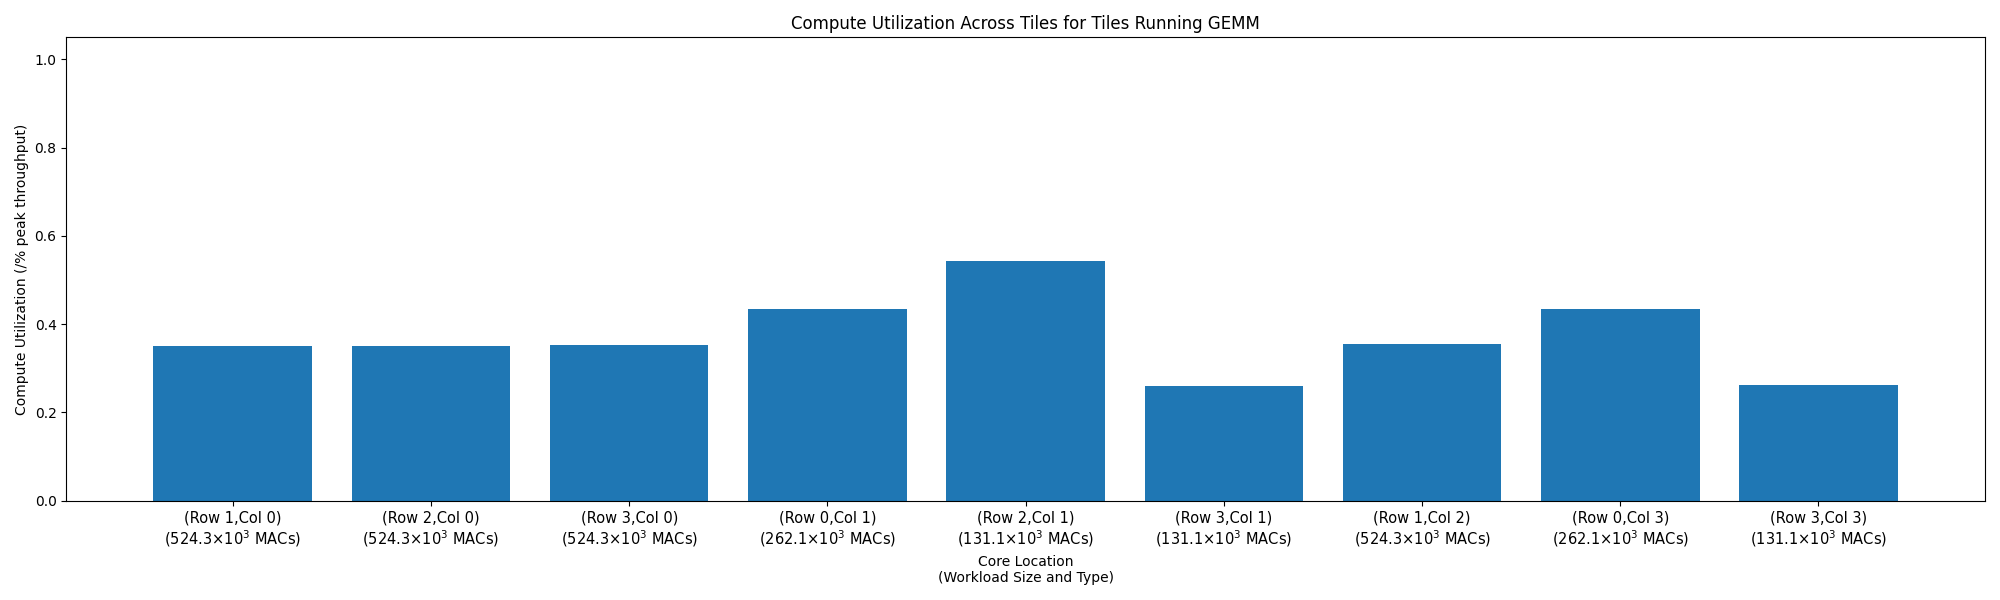
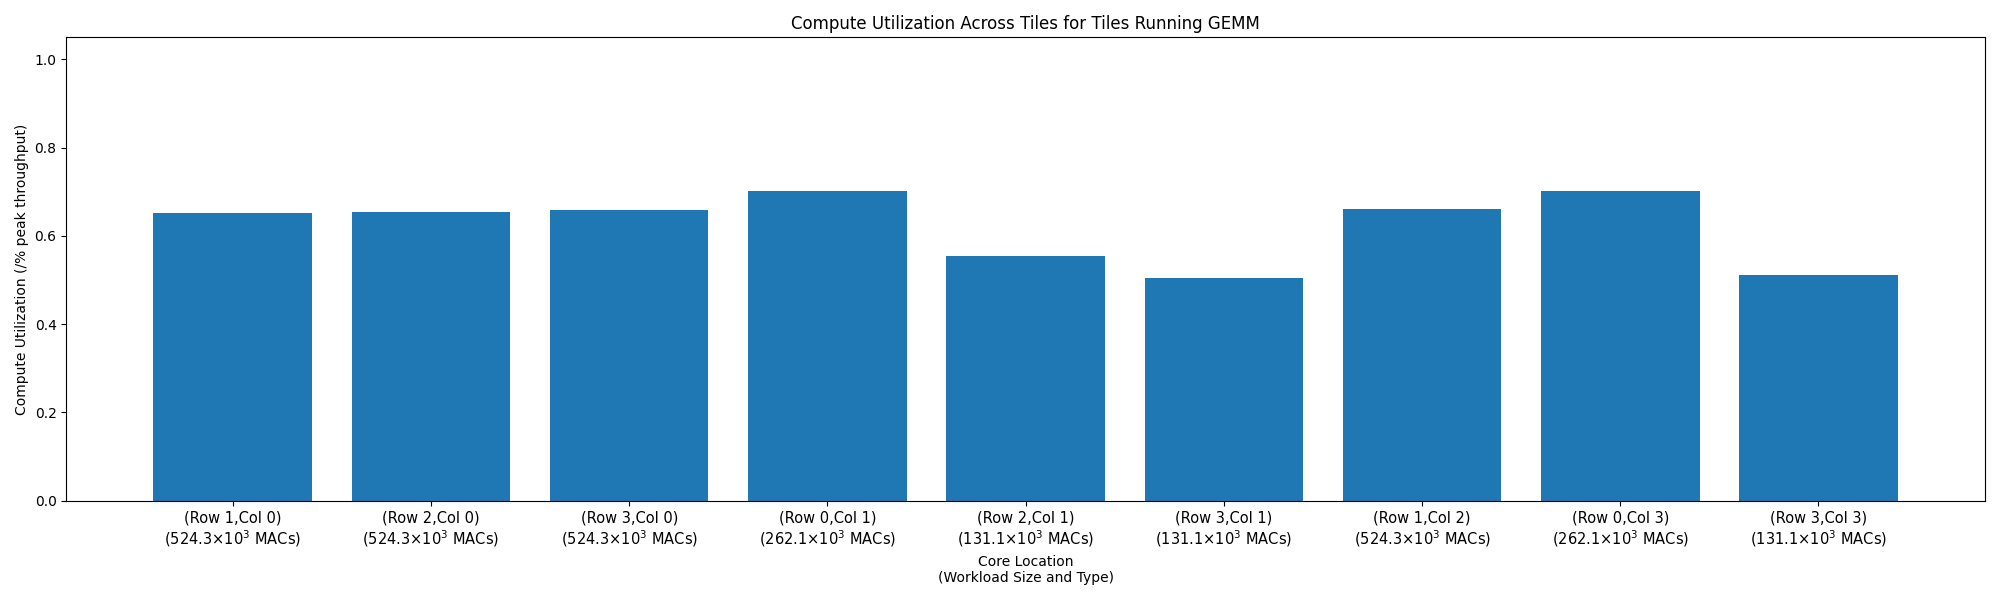
Using the right peak throughput for trace analysis based on device

Changed region(s): [[0.062, 0.3, 0.558, 0.6], [0.558, 0.3, 0.961, 0.66]]

diff --git a/programming_examples/ml/transformer/mha_with_trace/analyse_traces.py b/programming_examples/ml/transformer/mha_with_trace/analyse_traces.py
@@ -6,7 +6,7 @@ import re
 import matplotlib.pyplot as plt
 
 # First number is row, second number is column
-THEORETICAL_PEAK_BF16_BF16 = 256 # MACs per cycle
+THEORETICAL_PEAK_BF16_BF16 = {"npu2": 256, "npu": 128} # MACs per cycle
 WORKLOAD_AT_TILE = {
     "tile2,1": {"type": "GEMM", "size": 64*64*64*2},
     "tile2,2": {"type": "GEMM", "size": 16*32*256*2},
@@ -27,7 +27,7 @@ WORKLOAD_AT_TILE = {
 }
 
 CLOCK_FREQ = 10**9  # 1 GHz
-def analyse_json_file(filepath):
+def analyse_json_file(filepath, dev):
     """
     Analyse the JSON file for performance data.
     Args:
@@ -82,6 +82,7 @@ def analyse_json_file(filepath):
                     start_ts = trace_data.get("ts")
                     # Search for the next INSTR_EVENT_1 with "E"
                     end_ts = None
+                    num_instr_vectors = 0
                     for j in range(i + 1, len(data)):
                         next_item = data[j]
                         if (
@@ -96,16 +97,21 @@ def analyse_json_file(filepath):
                         if next_item.get("name") == "INSTR_EVENT_0" and next_item.get("ph") == "B":
                             logging.info(f"Replacing start_ts with next INSTR_EVENT_0 ts: {next_item.get('ts')}")
                             start_ts = next_item.get("ts")
+                        if next_item.get("name") == "INSTR_VECTOR":
+                            num_instr_vectors += 1
                     # 1us is 1 cycle in perfetto
                     kernel_cycles = end_ts - start_ts if start_ts is not None and end_ts is not None else 0
                     if kernel_cycles <= 0:
                         logging.warning(f"Invalid kernel cycles instance found for tile {tile_str} at {filepath}")
                     kernel_time_s = kernel_cycles / CLOCK_FREQ if kernel_cycles > 0 else 0
-                    if kernel_time_s > 0:
-                        kernel_time_s_avg += kernel_time_s
-                        kernel_time_s_max = max(kernel_time_s_max, kernel_time_s) if num_kernel_traces > 0 else kernel_time_s
-                        kernel_time_s_min = min(kernel_time_s_min, kernel_time_s) if num_kernel_traces > 0 else kernel_time_s
-                        num_kernel_traces += 1
+                    if num_instr_vectors != 0:
+                        if kernel_time_s > 0:
+                            kernel_time_s_avg += kernel_time_s
+                            kernel_time_s_max = max(kernel_time_s_max, kernel_time_s) if num_kernel_traces > 0 else kernel_time_s
+                            kernel_time_s_min = min(kernel_time_s_min, kernel_time_s) if num_kernel_traces > 0 else kernel_time_s
+                            num_kernel_traces += 1
+                    else:
+                        logging.info(f"Skipping kernel trace with {num_instr_vectors} INSTR_VECTOR events for tile {tile_str} at {filepath}")
                 i += 1
             kernel_time_s_avg /= num_kernel_traces if num_kernel_traces > 0 else 1
             logging.info(f"Average kernel time (s): {kernel_time_s_avg}")
@@ -120,7 +126,7 @@ def analyse_json_file(filepath):
             logging.info(f"Min GFLOPs/sec: {gflops_per_s_min}")
             if workload and workload['type'] == "GEMM":
                 # Compute utilization: (workload size in FLOPs) / (2 FLOPs per MAC) / (kernel time in seconds * CLOCK_FREQ in cycles per second) / (THEORETICAL_PEAK_BF16_BF16 in MACs per cycle)
-                compute_utilization = (workload['size'] / 2 / (kernel_time_s_avg * CLOCK_FREQ)) / THEORETICAL_PEAK_BF16_BF16 # Fraction of theoretical peak
+                compute_utilization = ((workload['size'] / 2) / (kernel_time_s_avg * CLOCK_FREQ)) / THEORETICAL_PEAK_BF16_BF16[dev] # Fraction of theoretical peak
                 logging.info(f"Compute Utilization for {tile_str}: {compute_utilization:.2%}")
             else:
                 compute_utilization = None
@@ -177,7 +183,7 @@ def main():
     for filename in os.listdir(args.directory):
         if filename.endswith('.json'):
             filepath = os.path.join(args.directory, filename)
-            result = analyse_json_file(filepath)
+            result = analyse_json_file(filepath, args.dev)
             if result:
                 performance_results.append(result)
 
